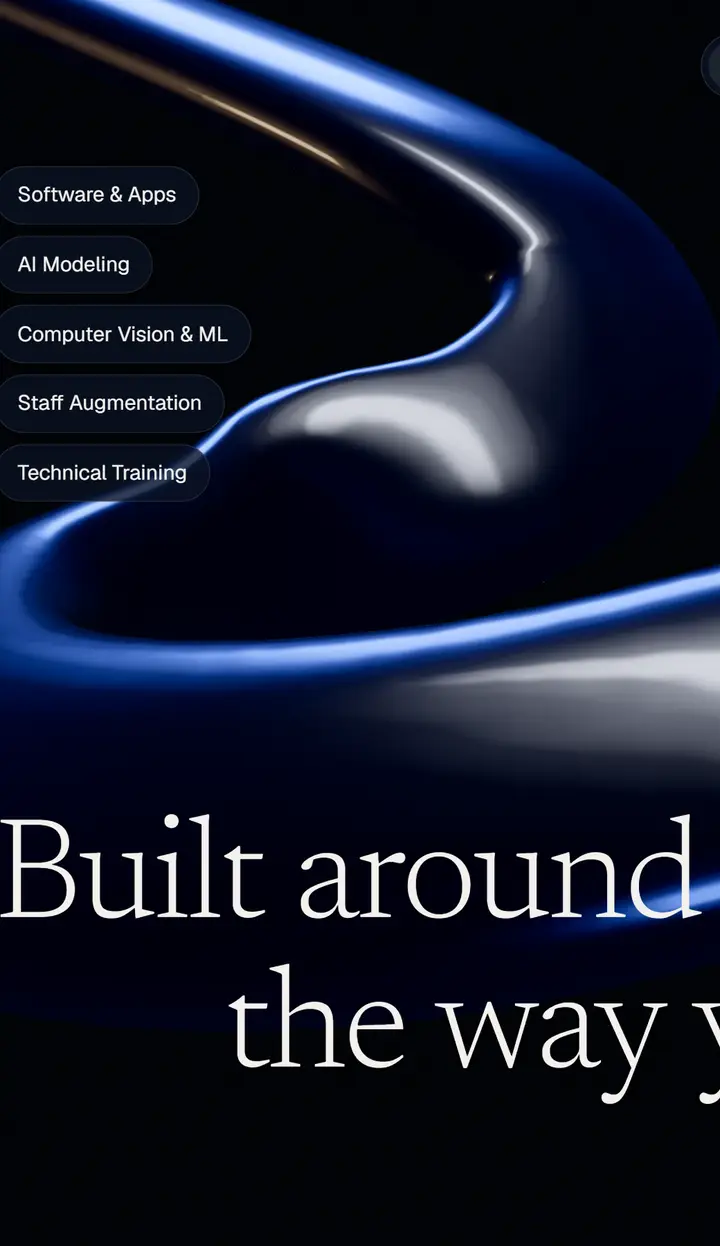
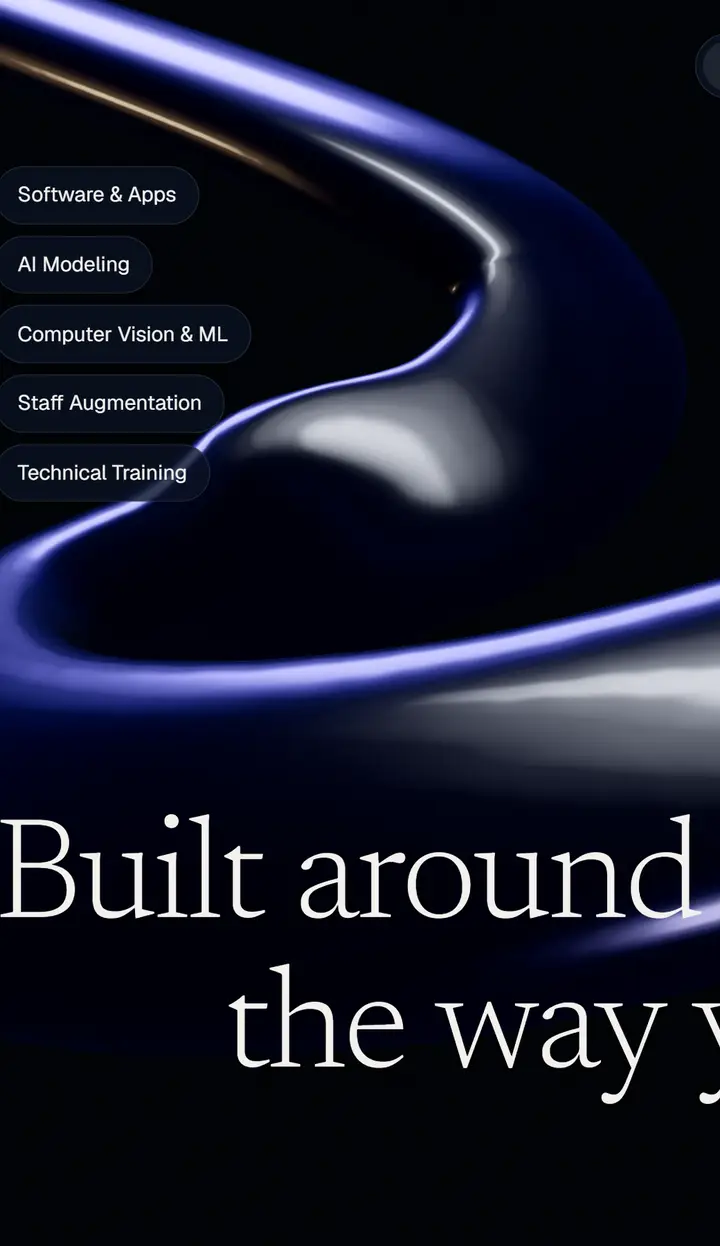
Hero ribbon in inky violet; regenerated OG image and menu stills
- Ribbon reflections: main panel #6A4CFF, edge panel #9C86FF, latex sheen #5B45E0 (intensities
  unchanged); black body, white top highlight and warm kicker kept. Only the hero ribbon — the blue
  line elsewhere is unchanged
- og.jpg and the menu stills re-captured from the production build
- Build: chunk-size warning limit raised for the lazy-loaded three.js chunk

Changed region(s): [[0.0, 0.0, 1.0, 0.427], [0.0, 0.366, 1.0, 0.6404], [0.7333, 0.7014, 1.0, 0.7929]]

diff --git a/app/utils/ribbon/params.ts b/app/utils/ribbon/params.ts
@@ -71,9 +71,10 @@ export const ribbonParams = {
     ] as Twist[],
   },
   softboxes: {
-    /** Two big electric-blue panels raking from the sides. */
-    blueA: { color: '#3b5bff', intensity: 2.5, azimuth: 60, elevation: 18, angularWidth: 30, angularHeight: 26, roll: 10, softness: 0.65 } as Softbox,
-    blueB: { color: '#3b5bff', intensity: 2.5, azimuth: -120, elevation: 14, angularWidth: 30, angularHeight: 26, roll: -8, softness: 0.65 } as Softbox,
+    /** Two big panels raking from the sides: an inky violet (deep lilac on black lacquer) — the main one,
+     *  and a lighter lilac on the other side for the edge sheen. Intensities as before. */
+    blueA: { color: '#6a4cff', intensity: 2.5, azimuth: 60, elevation: 18, angularWidth: 30, angularHeight: 26, roll: 10, softness: 0.65 } as Softbox,
+    blueB: { color: '#9c86ff', intensity: 2.5, azimuth: -120, elevation: 14, angularWidth: 30, angularHeight: 26, roll: -8, softness: 0.65 } as Softbox,
     /** Long cool-white strip above: the white highlight running along the top curves. */
     strip: { color: '#dde4ff', intensity: 2.5, azimuth: 0, elevation: 78, angularWidth: 100, angularHeight: 9, roll: 0, softness: 0.7 } as Softbox,
     kicker: { color: '#f0c58c', intensity: 1.2, azimuth: 120, elevation: -6, angularWidth: 8, angularHeight: 6, roll: 0, softness: 0.6 } as Softbox,
@@ -92,7 +93,7 @@ export const ribbonParams = {
     clearcoatRoughness: 0.06,
     /** Soft latex sheen at grazing angles. */
     sheen: 0.25,
-    sheenColor: '#5b6bff',
+    sheenColor: '#5b45e0',
     sheenRoughness: 0.6,
     /** Reflection gain the sheen sees (the envIntensity gain is divided back out for it). */
     sheenGain: 3,

diff --git a/nuxt.config.ts b/nuxt.config.ts
@@ -10,6 +10,13 @@ export default defineNuxtConfig({
 
   css: ['~/assets/css/tokens.css', '~/assets/css/base.css'],
 
+  vite: {
+    build: {
+      // three.js is one ~550 KB chunk; it is lazy-loaded with the stage (LazyStage), not in the entry.
+      chunkSizeWarningLimit: 800,
+    },
+  },
+
   typescript: {
     strict: true,
   },
